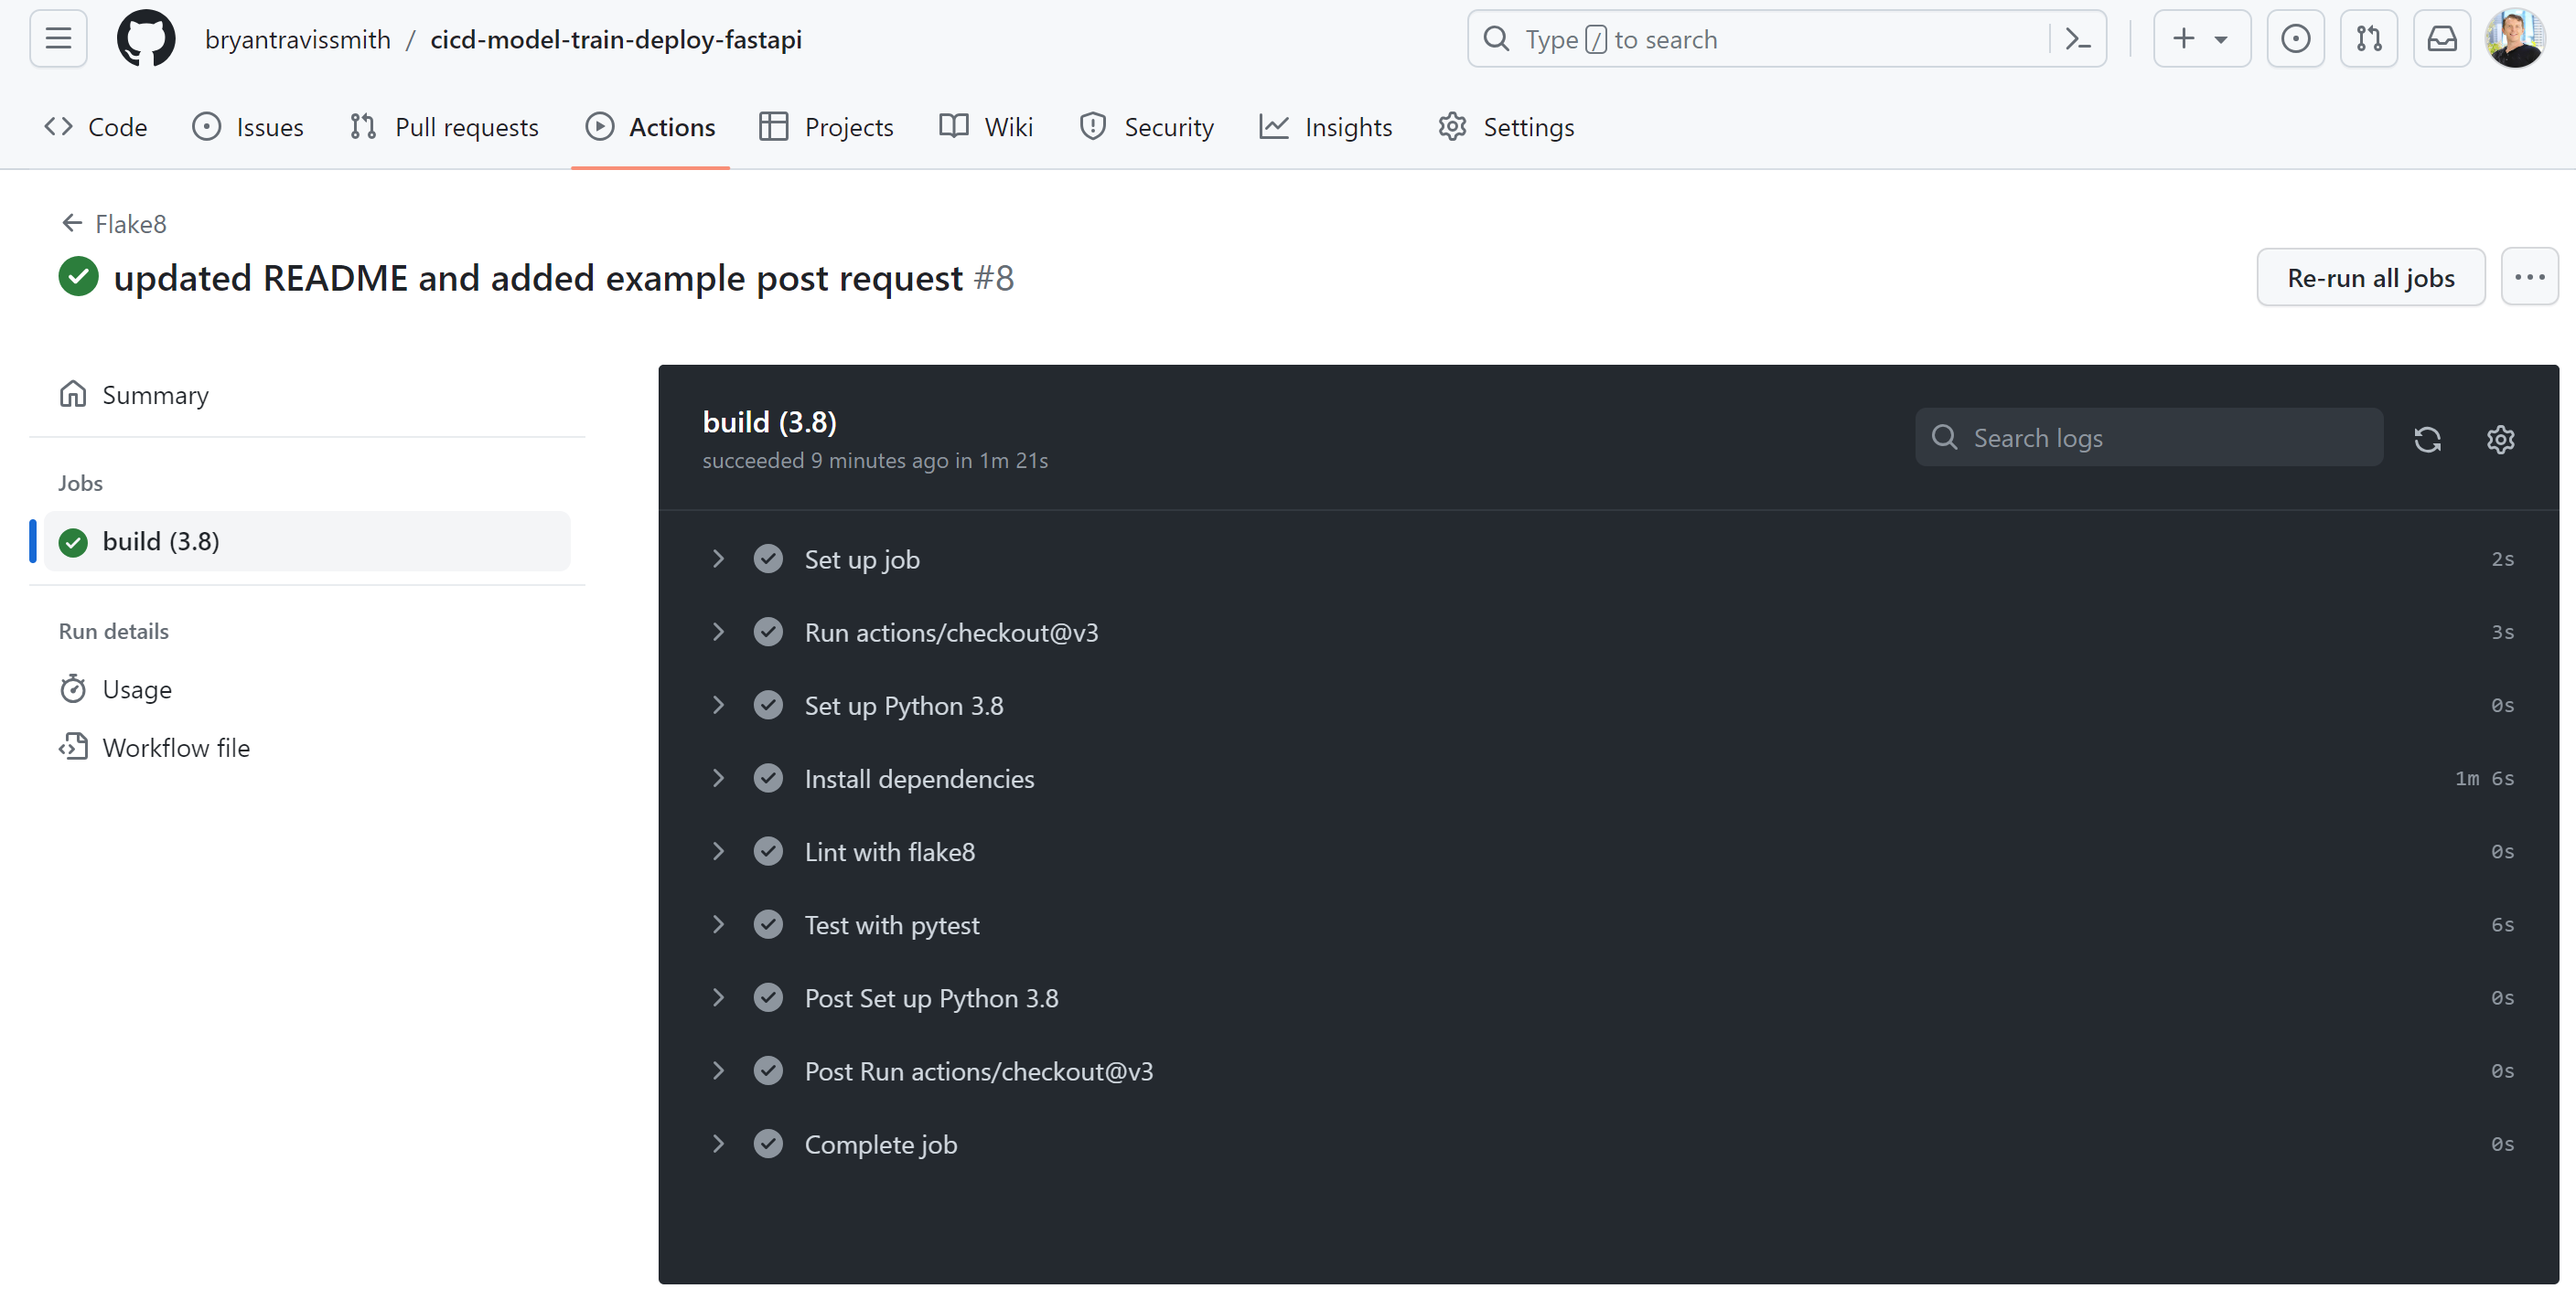
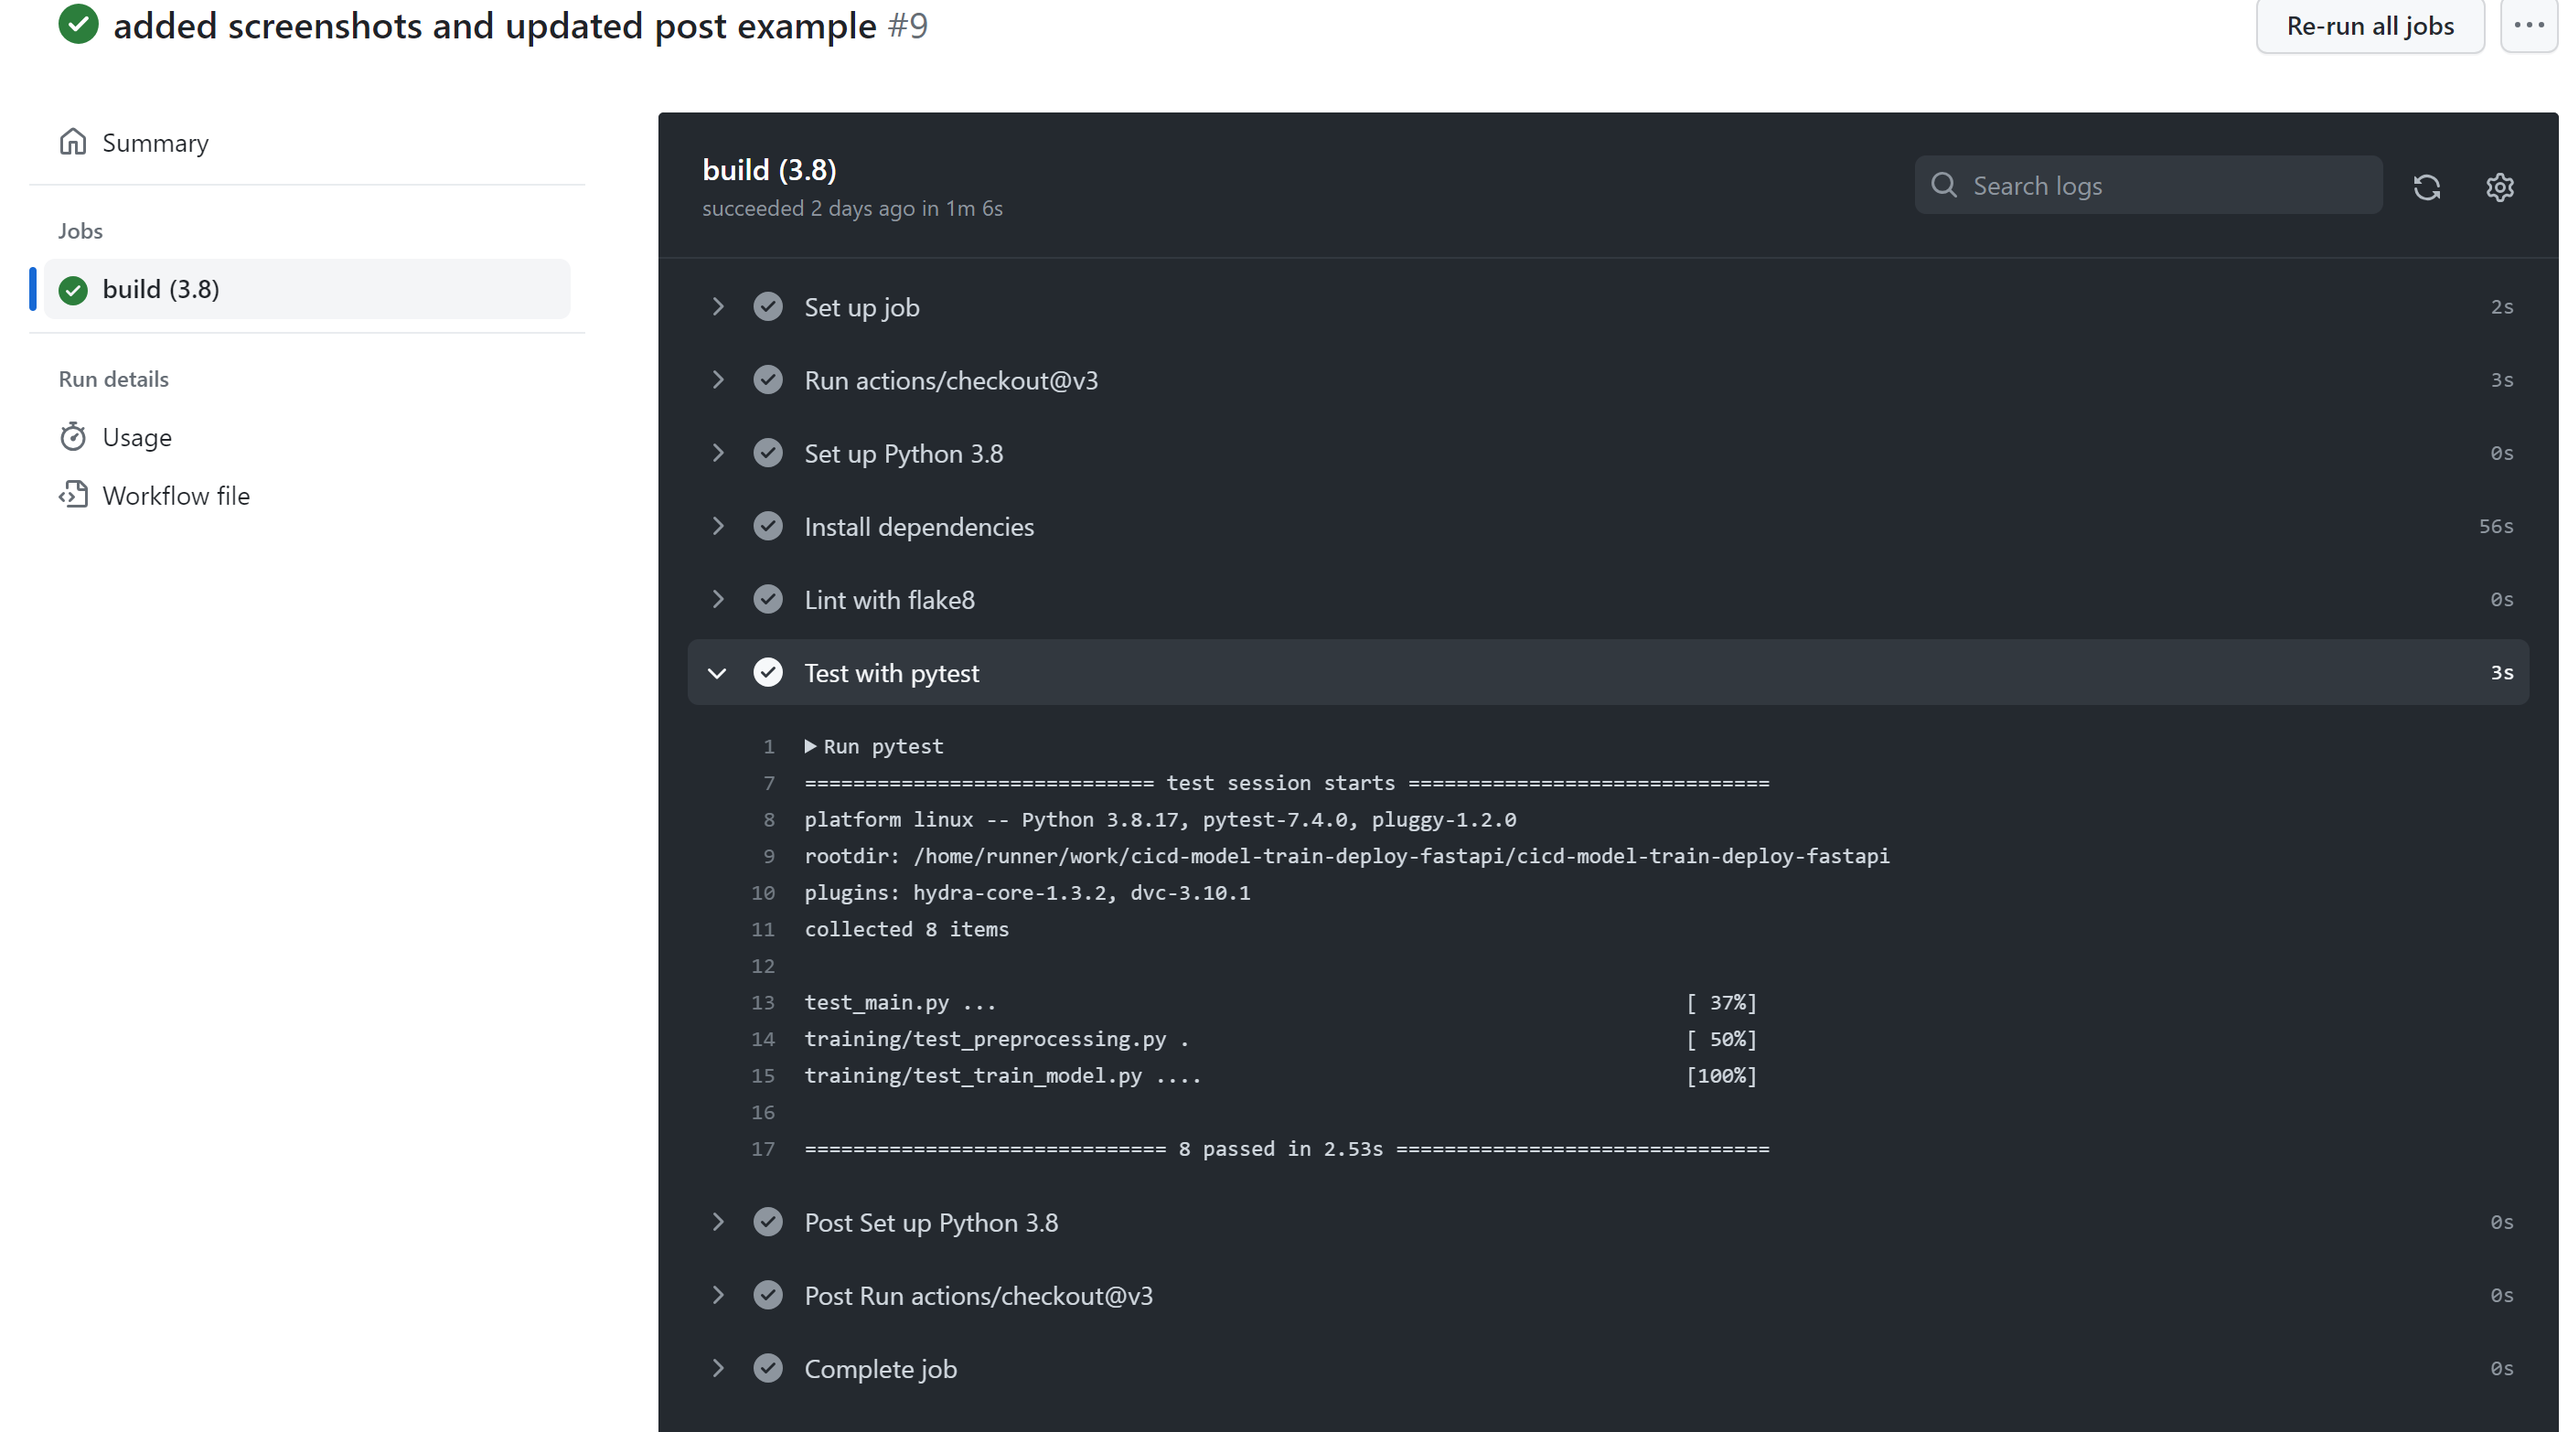
updated screenshots and tests

diff --git a/training/test_train_model.py b/training/test_train_model.py
@@ -102,12 +102,17 @@ def test_calculate_score():
     assert np.abs(f1 - 0.5) < 1e-5
 
 
-def test_model_predictions(model, positive_predictions, negative_predictions):
+def test_positive_model_predictions(model, positive_predictions):
     y_pos = model.predict(positive_predictions)
-    y_neg = model.predict(negative_predictions)
 
     y_pos_values = list(np.unique(y_pos).astype(int))
-    y_neg_values = list(np.unique(y_neg).astype(int))
 
     assert y_pos_values == [1]
+
+
+def test_negative_model_predictions(model, negative_predictions):
+    y_neg = model.predict(negative_predictions)
+
+    y_neg_values = list(np.unique(y_neg).astype(int))
+
     assert y_neg_values == [0]

diff --git a/README.md b/README.md
@@ -3,7 +3,9 @@ A Continuous Integration / Continuous Delivery Model Release repo using FastAPI
 
 This is a project for the ML Engineering Udacity Nanodegree.   It leverage
 github actions for testing and linting, and github hooks to deploy the ML Fast
-API endpoint when test pasts.   Details about the model are in the following
+API endpoint when test pasts to a free Render.com endpoint.
+
+Details about the model are in the following
 Model Card section.
 
 
@@ -31,7 +33,8 @@ set.
 
 ## Metrics
 The model was evaluted using F1 score.  The value for the current mode is
-0.6063
+0.6063.   Other measures montored include a precision of 0.546, a recall of
+0.682 and an accuracy of 82.9%.
 
 ## Ethical Considerations
 
